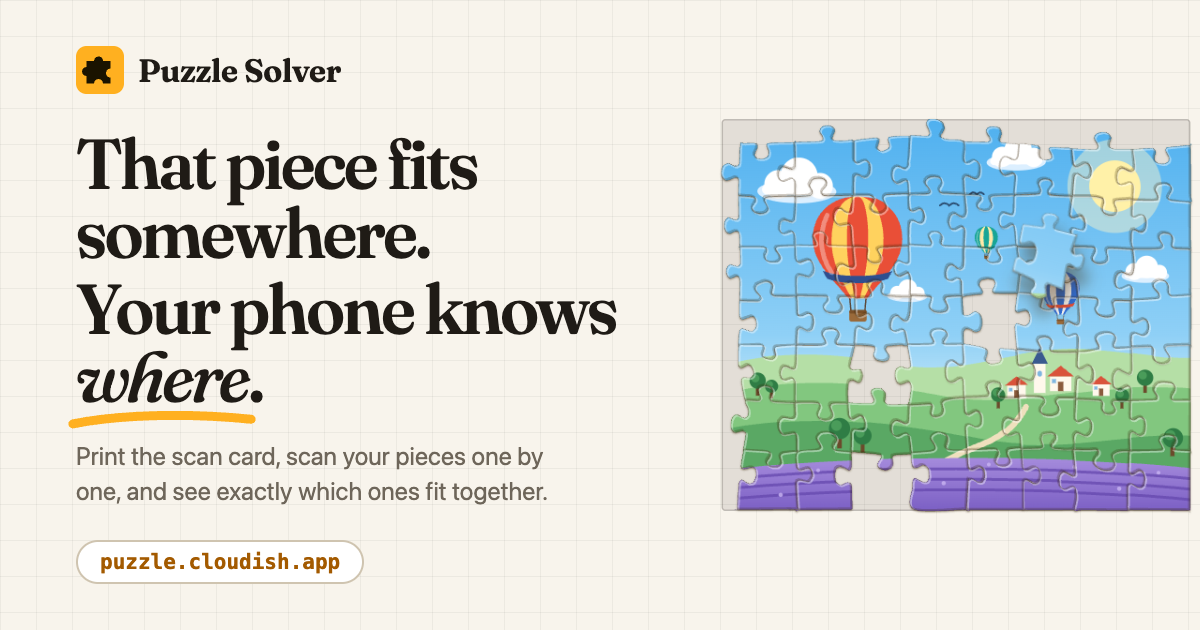
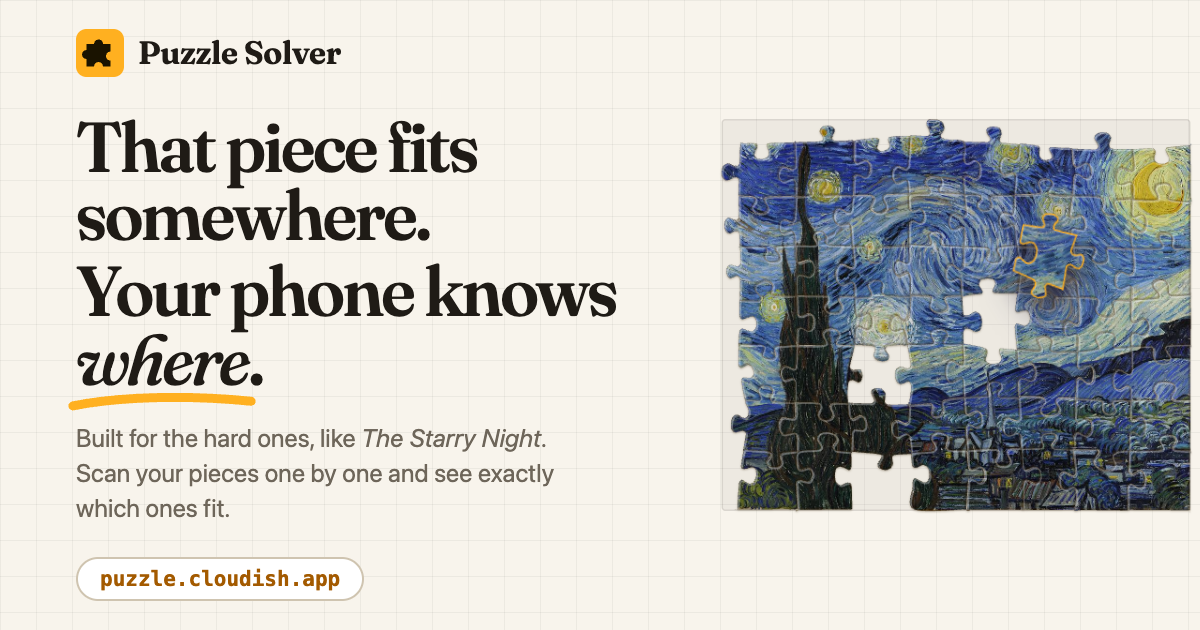
Use The Starry Night on the landing page and lean into hard puzzles
The hero and illustrations now lay Van Gogh's The Starry Night (public
domain, via Wikimedia Commons) over the 54 real demo pieces, with a caption
saying it is widely considered one of the hardest jigsaw puzzles and that
the outlines come from the demo. The copy leans into hard puzzles: eyebrow,
lead, link previews, the shape-only matching card and the FAQ. Credits in
the footer and README.

diff --git a/public/index.html b/public/index.html
@@ -10,14 +10,14 @@
   <meta property="og:site_name" content="Puzzle Solver">
   <meta property="og:url" content="https://puzzle.cloudish.app/">
   <meta property="og:title" content="Puzzle Solver – scan your jigsaw pieces, see where they go">
-  <meta property="og:description" content="Print the scan card, scan your pieces one by one, and let your phone work out exactly which ones fit together.">
+  <meta property="og:description" content="Built for the hard ones, like The Starry Night. Print the scan card, scan your pieces one by one, and let your phone work out exactly which ones fit together.">
   <meta property="og:image" content="https://puzzle.cloudish.app/social-card.png">
   <meta property="og:image:width" content="1200">
   <meta property="og:image:height" content="630">
   <meta property="og:image:alt" content="Puzzle Solver: That piece fits somewhere. Your phone knows where.">
   <meta name="twitter:card" content="summary_large_image">
   <meta name="twitter:title" content="Puzzle Solver – scan your jigsaw pieces, see where they go">
-  <meta name="twitter:description" content="Print the scan card, scan your pieces one by one, and let your phone work out exactly which ones fit together.">
+  <meta name="twitter:description" content="Built for the hard ones, like The Starry Night. Print the scan card, scan your pieces one by one, and let your phone work out exactly which ones fit together.">
   <meta name="twitter:image" content="https://puzzle.cloudish.app/social-card.png">
   <script type="application/ld+json">{"@context":"https://schema.org","@type":"WebApplication","name":"Puzzle Solver","url":"https://puzzle.cloudish.app/","applicationCategory":"GameApplication","operatingSystem":"Any (web browser)","codeRepository":"https://github.com/javierluraschi/puzzle","description":"A jigsaw puzzle solver: scan pieces one at a time on a printed card; the app traces every outline on your phone and works out which pieces fit together."}</script>
   <meta name="theme-color" content="#f8f4ec">
@@ -48,9 +48,9 @@
     <section class="hero-band">
       <div class="wrap hero-grid">
         <div class="hero-copy">
-          <p class="eyebrow">A jigsaw puzzle solver for your phone</p>
+          <p class="eyebrow">A jigsaw puzzle solver for the hard ones</p>
           <h1>That piece fits somewhere. <span class="h1-turn">Your phone knows <em class="swoosh">where<svg viewBox="0 0 200 24" preserveAspectRatio="none" aria-hidden="true"><path d="M4 16C52 6 128 4 196 11" pathLength="1"/></svg></em>.</span></h1>
-          <p class="lead">Scan your pieces one at a time on a printed card. Puzzle Solver traces each outline to a fraction of a millimetre, reads all four sides, and works out which pieces lock together, even in a sky that's all the same blue.</p>
+          <p class="lead">Scan your pieces one at a time on a printed card. Puzzle Solver traces each outline to a fraction of a millimetre, reads all four sides, and works out which pieces lock together. It's built for the hard ones: endless sky, swirling paint, hundreds of pieces that all look alike.</p>
 
           <div class="cta for-guest">
             <div class="cta-row">
@@ -63,7 +63,7 @@
           <div class="cta for-member">
             <p class="welcome">Welcome back<span id="member-name"></span>. What are we solving today?</p>
             <form class="start-form" id="start-form">
-              <input name="name" placeholder="Puzzle name, e.g. Balloons over Provence" maxlength="80" autocomplete="off" aria-label="Puzzle name">
+              <input name="name" placeholder="Puzzle name, e.g. The Starry Night" maxlength="80" autocomplete="off" aria-label="Puzzle name">
               <button class="primary" type="submit">Start a puzzle</button>
             </form>
             <button class="link-button" data-action="demo">or open a demo catalog of 54 real pieces →</button>
@@ -71,7 +71,8 @@
           <p class="error" id="home-error" hidden></p>
         </div>
         <figure class="hero-art">
-          <div class="hero-stage" data-art="hero" role="img" aria-label="Fifty-four numbered puzzle pieces moving from a pile into their solved places, forming a picture of hot-air balloons over the countryside"></div>
+          <div class="hero-stage" data-art="hero" role="img" aria-label="Fifty-four numbered puzzle pieces moving from a pile into their solved places, forming Van Gogh's The Starry Night"></div>
+          <figcaption><em>The Starry Night</em>, Vincent van Gogh, 1889: widely considered one of the hardest jigsaw puzzles you can attempt. Shown on the outlines of 54 real pieces from our demo, placed where the solver put them.</figcaption>
         </figure>
       </div>
     </section>
@@ -174,7 +175,7 @@
           </div>
           <div class="expect">
             <h3>Shape is everything</h3>
-            <p>Matching reads only the outline, never the picture. That's why it handles plain areas that are hard by eye. It works best with grid-cut puzzles whose pieces differ in shape (Ravensburger-style). Cuts where many pieces look identical are harder.</p>
+            <p>Matching reads only the outline, never the picture. The swirls that make <em>The Starry Night</em> so hard by eye don't confuse it, and neither does a plain sky. It works best with grid-cut puzzles whose pieces differ in shape (Ravensburger-style). Cuts where many pieces look identical are harder.</p>
           </div>
           <div class="expect">
             <h3>Groups, not guesses</h3>
@@ -222,7 +223,7 @@
       </details>
       <details>
         <summary>Which puzzles work best?</summary>
-        <p>Classic grid-cut puzzles where each piece has four sides with tabs and blanks, and the shapes vary from piece to piece. Puzzles with many identical shapes, or irregular "random cut" pieces, are much harder because shape is all the app looks at.</p>
+        <p>Classic grid-cut puzzles where each piece has four sides with tabs and blanks, and the shapes vary from piece to piece. Puzzles with many identical shapes, or irregular "random cut" pieces, are much harder because shape is all the app looks at. What's hard by eye is fine: night skies, oceans, paintings like <em>The Starry Night</em>. That's where the app helps most.</p>
       </details>
       <details>
         <summary>What if a scan comes out wrong?</summary>
@@ -272,7 +273,7 @@
       </nav>
       <p class="hosted">Hosted on <a href="https://cloudish.ai" target="_blank" rel="noopener">cloudish.ai</a>. Thanks to Cloudish for hosting and sign-in.</p>
     </div>
-    <p class="wrap credits">Open source under the MIT license. The original analysis and solver, the reference solutions used for validation, and the demo pieces come from <a href="https://github.com/byWulf/jigsawlutioner" target="_blank" rel="noopener">jigsawlutioner</a> by Michael Wolf (MIT). Headings are set in <a href="https://github.com/undercasetype/Fraunces" target="_blank" rel="noopener">Fraunces</a> (OFL).</p>
+    <p class="wrap credits">Open source under the MIT license. The original analysis and solver, the reference solutions used for validation, and the demo pieces come from <a href="https://github.com/byWulf/jigsawlutioner" target="_blank" rel="noopener">jigsawlutioner</a> by Michael Wolf (MIT). Headings are set in <a href="https://github.com/undercasetype/Fraunces" target="_blank" rel="noopener">Fraunces</a> (OFL). <em>The Starry Night</em> by Vincent van Gogh (1889, Museum of Modern Art) is in the public domain; image via <a href="https://commons.wikimedia.org/wiki/File:Van_Gogh_-_Starry_Night_-_Google_Art_Project.jpg" target="_blank" rel="noopener">Wikimedia Commons</a>.</p>
   </footer>
   <div id="scanner-host" hidden></div>
 

diff --git a/public/style.css b/public/style.css
@@ -288,6 +288,7 @@ html.on-puzzle #home, html.on-puzzle .topnav { display: none; }
 @keyframes draw { to { stroke-dashoffset: 0; } }
 .hero-copy .lead { font-size: 1.15rem; color: var(--muted); }
 .hero-art { margin: 0; }
+.hero-art figcaption { max-width: 28rem; margin: 0.4rem auto 0; color: var(--muted); font-size: 0.82rem; line-height: 1.45; text-align: center; }
 
 .cta { margin-top: 1.8rem; }
 .cta-row { display: flex; flex-wrap: wrap; gap: 0.7rem; }
@@ -308,7 +309,7 @@ body.signed-in .for-guest, body:not(.signed-in) .for-member { display: none; }
 .hp-lift { position: absolute; inset: 0; filter: blur(8px); transform: translate(8px, 16px); animation: lift 12s ease var(--d) infinite both; }
 .hp-lift-shape { position: absolute; inset: 0; background: rgba(70, 45, 10, 0.38); }
 .hp-face, .hp-bevel { position: absolute; inset: 0; }
-.bevel-light { fill: none; stroke: rgba(255, 255, 255, 0.42); stroke-width: 2; }
+.bevel-light { fill: none; stroke: rgba(255, 255, 255, 0.34); stroke-width: 2; }
 .bevel-dark { fill: none; stroke: rgba(50, 30, 0, 0.24); stroke-width: 2; }
 .piece-seam { fill: none; stroke: rgba(40, 25, 0, 0.32); stroke-width: 0.7; }
 .hp-tag { position: absolute; left: 50%; top: 50%; width: 24px; height: 24px; margin: -12px; border-radius: 50%; background: #fff; color: var(--text); font: 700 10.5px/24px var(--font-mono); text-align: center; box-shadow: 0 1px 3px rgba(0, 0, 0, 0.25); transform: rotate(var(--tr)); animation: tag 12s ease var(--d) infinite both; }

diff --git a/public/landing.js b/public/landing.js
@@ -1,9 +1,10 @@
 // Illustrations for the landing page, drawn from real pieces: the 54-piece demo set as this app scanned
 // and solved it (/demo/landing.json, made by tools/make_landing_data.mjs). Outlines are in millimetres,
-// placed where the solver put them. The picture on the pieces is /scene.svg, laid over the solved board.
+// placed where the solver put them. The picture on the pieces is Van Gogh's The Starry Night (public
+// domain), laid over the solved board: one of the hardest images to do as a jigsaw by eye.
 
 const NS = 'http://www.w3.org/2000/svg';
-const SCENE = { url: '/scene.svg', width: 420, height: 336 };
+const SCENE = { url: '/starry-night.jpg', width: 1000, height: 792 };
 
 function el(tag, attrs = {}, ...children) {
   const node = document.createElementNS(NS, tag);

diff --git a/README.md b/README.md
@@ -94,7 +94,8 @@ action once the account is known. Headings use [Fraunces](https://github.com/und
 
 Its illustrations (`public/landing.js`) are drawn from real data rather than mock-ups:
 `public/demo/landing.json` is the 54-piece demo as this app analyzed and solved it, with outlines in
-millimetres where the solver placed them. The picture on the pieces is `public/scene.svg`. The hero
+millimetres where the solver placed them. The picture on the pieces is Van Gogh's *The Starry Night*
+(`public/starry-night.jpg`, public domain), widely considered one of the hardest jigsaw puzzles there is. The hero
 assembles the solved board from a pile, and the step illustrations follow one piece (42) with its real
 neighbours and match confidences. The hero pieces are HTML layers clipped to their outlines, so the
 animation moves cached layers instead of repainting the picture every frame.
@@ -125,4 +126,6 @@ and rolls it out. It needs `CLOUDISH_API_KEY` in `.env`.
 [jigsawlutioner-cli](https://github.com/byWulf/jigsawlutioner-cli) by Michael Wolf (MIT): the
 original analysis/solver, the reference results used for validation, and the demo pieces.
 [Fraunces](https://github.com/undercasetype/Fraunces) by the Fraunces Project Authors (OFL) for
-headings. Hosted on [Cloudish](https://cloudish.ai).
+headings. *The Starry Night* by Vincent van Gogh (1889, Museum of Modern Art), public domain, image via
+[Wikimedia Commons](https://commons.wikimedia.org/wiki/File:Van_Gogh_-_Starry_Night_-_Google_Art_Project.jpg).
+Hosted on [Cloudish](https://cloudish.ai).
